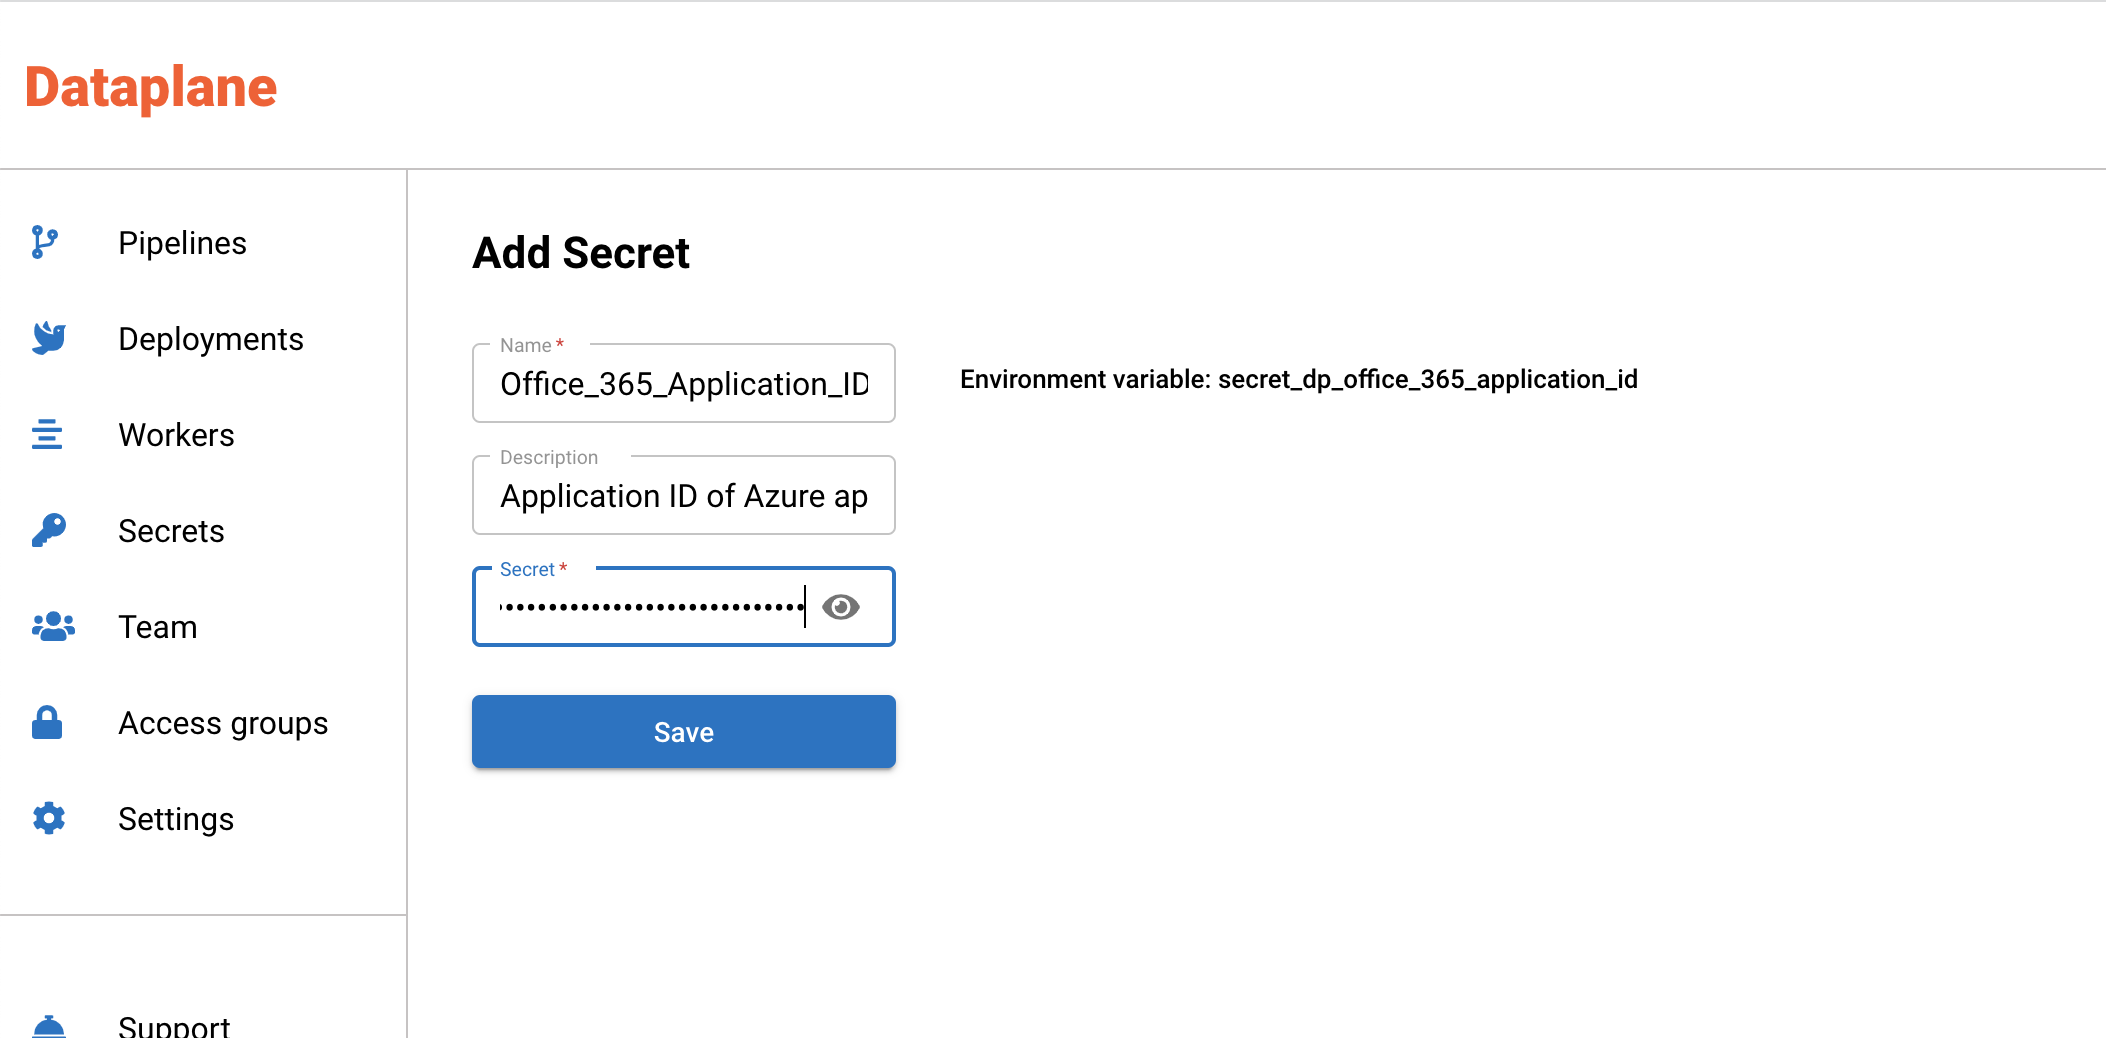
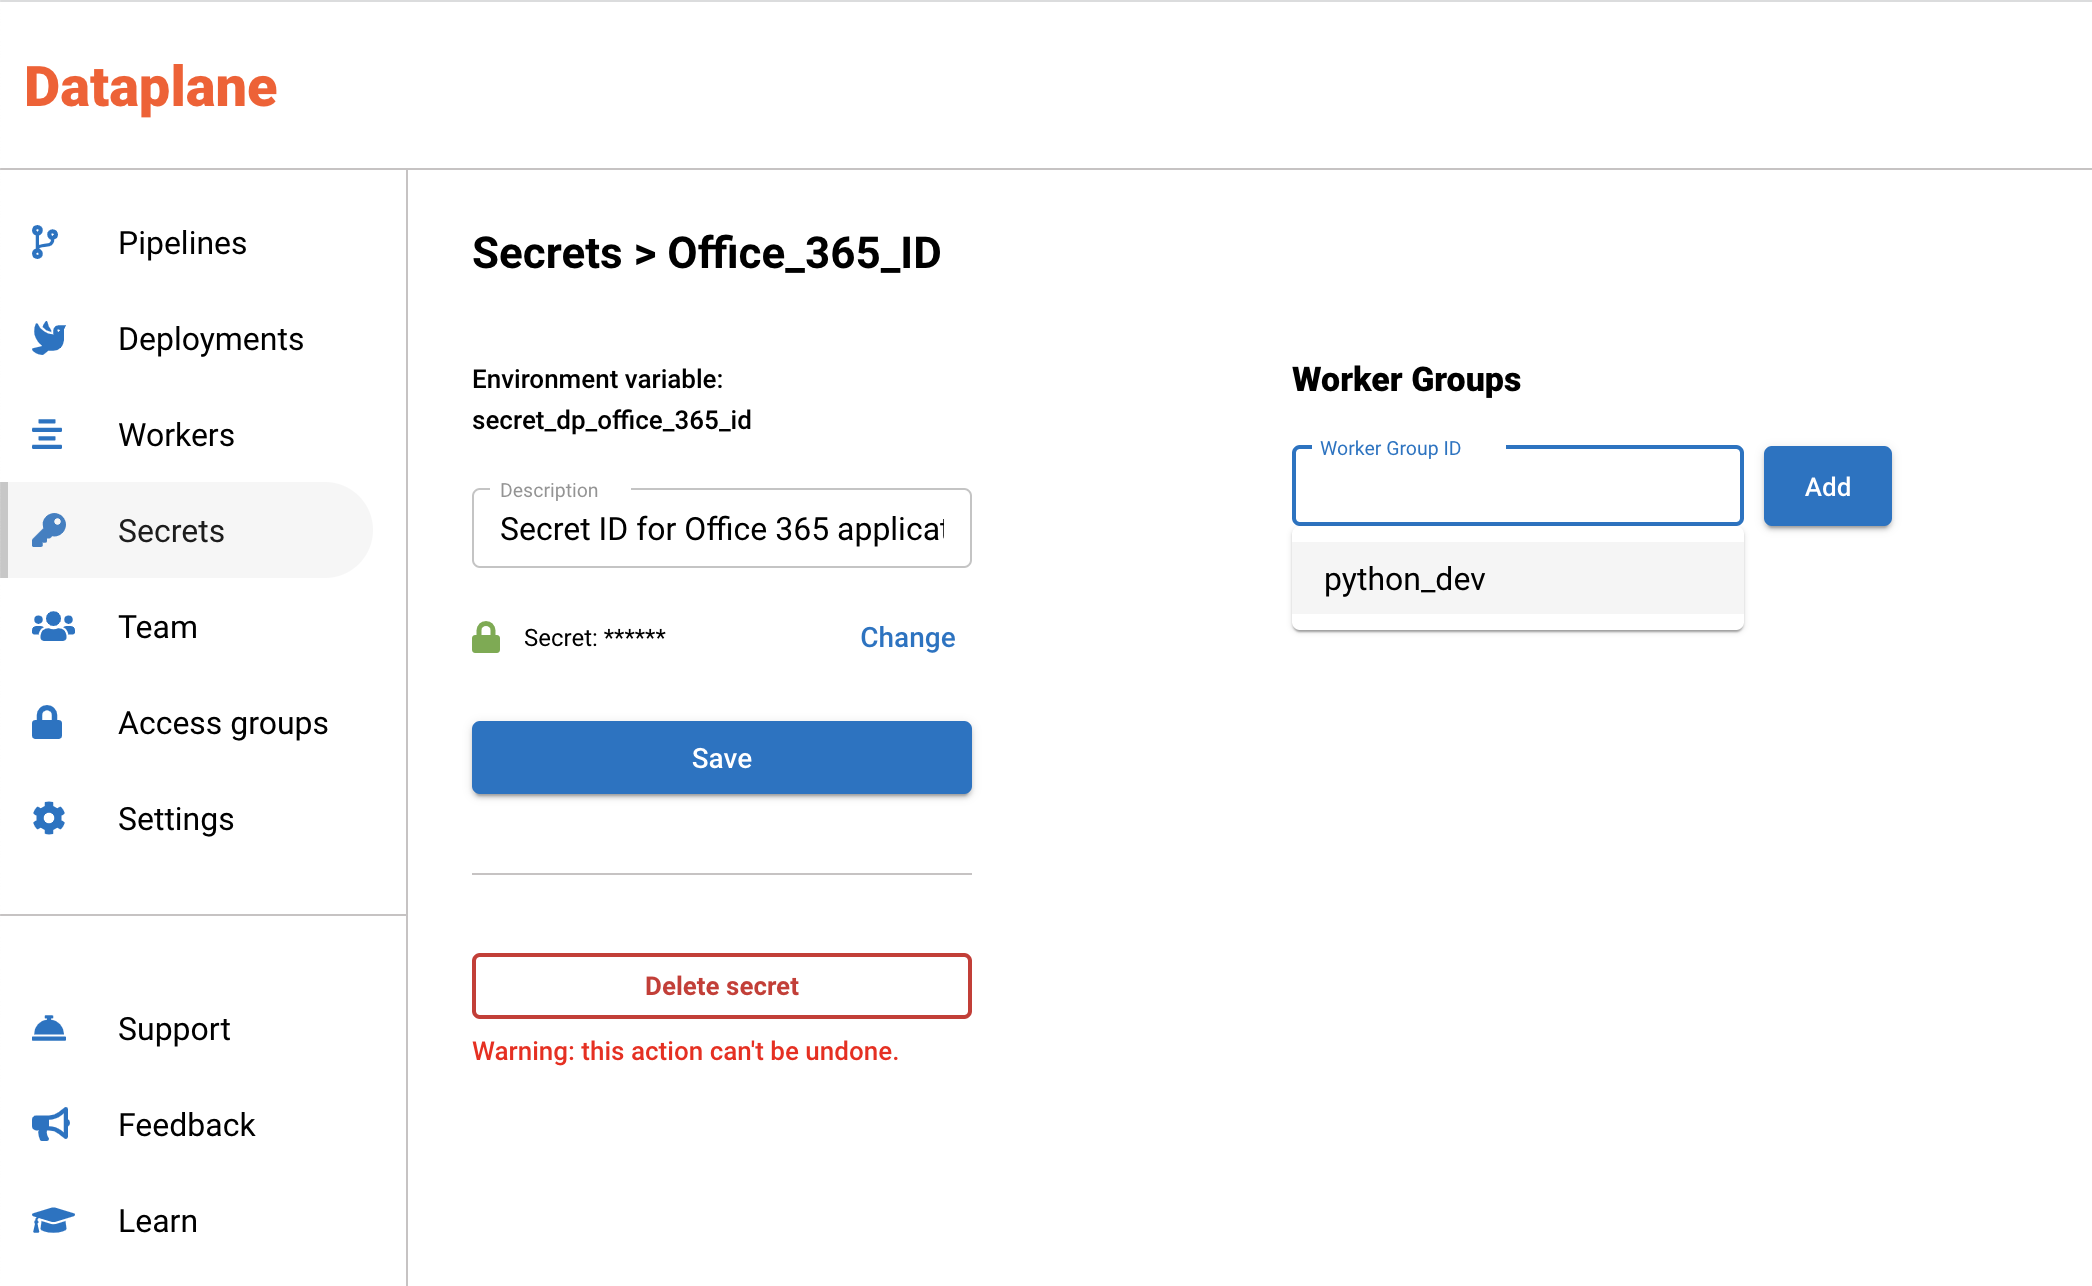
GitBook: [#13] No subject

diff --git a/office-365/sharepoint-api.md b/office-365/sharepoint-api.md
@@ -1,10 +1,12 @@
 # Sharepoint API
 
-Before using the Sharepoint API, an Azure App needs to be created. If you haven't done so already, follow these instructions. [register-an-azure-app.md](register-an-azure-app.md "mention")
+### Before using the Sharepoint API
 
+* An Azure App needs to be created. If you haven't done so already, follow these instructions. [register-an-azure-app.md](register-an-azure-app.md "mention")
+* Assign Sharepoint permissions - see below for instructions
+* To use Rest APIs, install the requests pip package by adding `requests==2.28.1` to requirements.txt file. Instructions: [https://learn.dataplane.app/create-a-data-pipeline#update-python-packages](https://learn.dataplane.app/create-a-data-pipeline#update-python-packages)
 
-
-**Assign Sharepoint API permissions to your Azure App**
+### **Assign Sharepoint API permissions to your Azure App**
 
 a. Select API permissions
 
@@ -22,5 +24,9 @@ d. Select Application Permissions - this allows a server side application to int
 * Sites.ReadWrite.All - allows reading and writing files to a Sharepoint site.
 
 ![](<../.gitbook/assets/image (3) (1).png>)
+
+### Run the APIs in Dataplane's code editor
+
+To use Dataplane's code editor, see [https://learn.dataplane.app/create-a-data-pipeline#write-and-test-python-code](https://learn.dataplane.app/create-a-data-pipeline#write-and-test-python-code)
 
 {% embed url="https://gist.github.com/feabced59a82e45859f3da3db463c222.git" %}

diff --git a/office-365/register-an-azure-app.md b/office-365/register-an-azure-app.md
@@ -1,5 +1,7 @@
 # Register an Azure app
 
+### Azure app creation
+
 To interact with Office 365 APIs, you need to register an Azure app in Azure Portal. Once an app is created, assign specific API permissions that you need.&#x20;
 
 1. Login at [https://portal.azure.com](https://portal.azure.com)
@@ -11,7 +13,7 @@ To interact with Office 365 APIs, you need to register an Azure app in Azure Por
 
 ![](<../.gitbook/assets/image (1) (1).png>)
 
-4\. Create a secret
+### Create authentication secrets
 
 {% hint style="danger" %}
 It is important to keep these credentials safe using a key store. It is good security practice not to hard code the secret in your code. Do not share secrets as this will compromise the safety and security of your data. You can use Dataplane's secrets to store these credentials. Learn more here: [https://learn.dataplane.app/managing-secrets](https://learn.dataplane.app/managing-secrets)
@@ -59,5 +61,11 @@ c. Add Directory (tenant) ID and Application (client) ID into Dataplane secrets
 ![](<../.gitbook/assets/image (3).png>)
 
 ![](<../.gitbook/assets/image (4).png>)
+
+![](<../.gitbook/assets/image (8).png>)
+
+### Add Secrets to worker groups
+
+Be sure to add the secrets to the worker groups. This is important because it injects the secrets into specific worker groups for isolation. See below a secret being added to the python\_dev worker group.
 
 ![](../.gitbook/assets/image.png)
